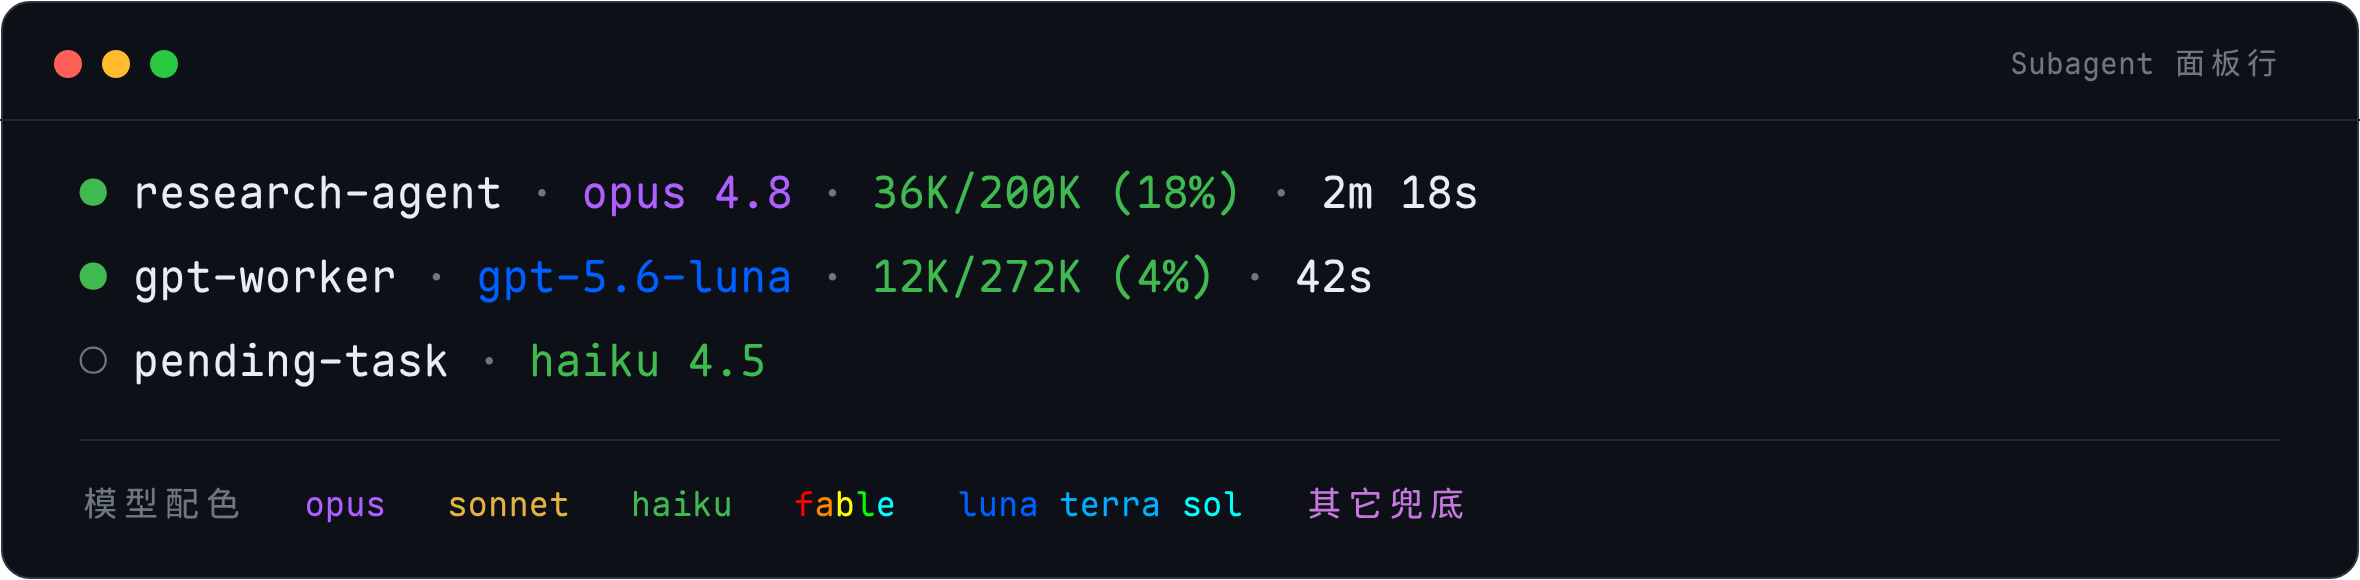
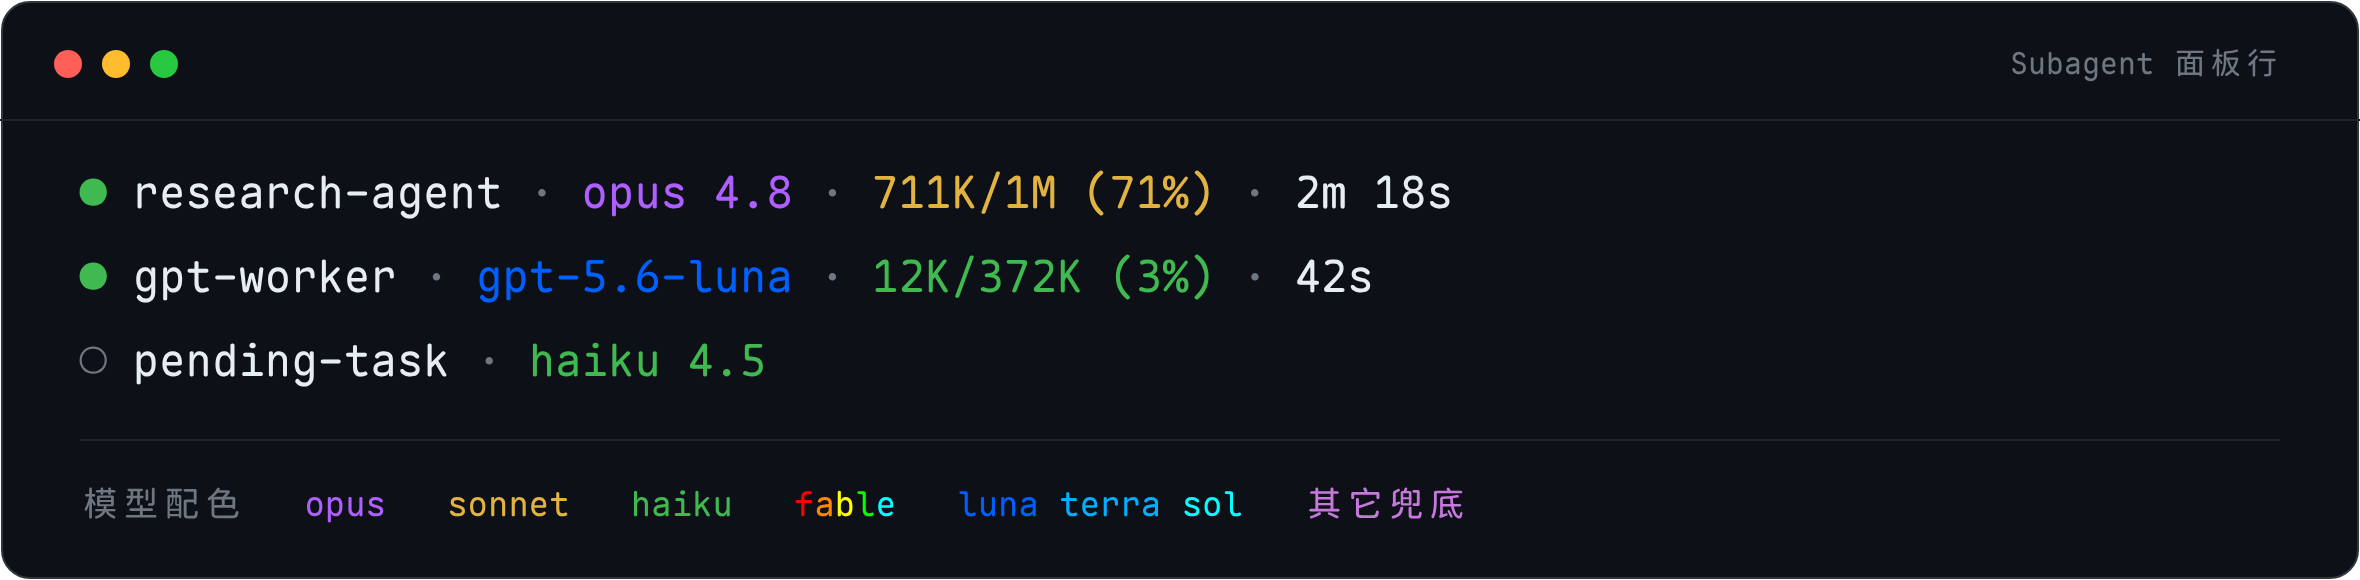
fix(subagent): 样例上下文窗口按真实档位修正并重算百分比
- opus 4.8 窗口 200K→1M，占用改为 711K/1M（71%，落黄档 50–79%）
- gpt-5.6-luna 窗口 272K→372K，占用 4%→3%（12K/372K，绿档）
- 占用段颜色一律按脚本 color_pct 档位取值（<50 绿 / 50–79 黄 / ≥80 红），非硬编码
- 同步改 assets/statusline-subagent.svg 并重渲染 PNG、README 的 <details> 兜底与 <img> alt、DESIGN.md 样例与格式示例
- 顺修 render.sh emoji 日志重复拼接（仅日志文案，不影响渲染）

Changed region(s): [[0.3712, 0.2793, 0.6496, 0.3724], [0.464, 0.4655, 0.4949, 0.4966], [0.4021, 0.4655, 0.4331, 0.4966]]

diff --git a/DESIGN.md b/DESIGN.md
@@ -170,8 +170,8 @@ Claude Code 在 subagent 面板中为每个 Task 渲染一行。本脚本读 std
 
 渲染样例（ANSI 上色后示意）：
 ```
-● research-agent · opus 4.8 · 36K/200K (18%) · 2m 18s
-● gpt-worker · gpt-5.6-luna · 12K/272K (4%) · 42s
+● research-agent · opus 4.8 · 711K/1M (71%) · 2m 18s
+● gpt-worker · gpt-5.6-luna · 12K/372K (3%) · 42s
 ○ pending-task · haiku 4.5
 ```
 
@@ -223,7 +223,7 @@ Claude Code 在 subagent 面板中为每个 Task 渲染一行。本脚本读 std
 
 ### 上下文占用段（三档变色；窗口未知则退化）
 
-`tokenCount/contextWindowSize (占用%)`，如 `36K/200K (18%)`。占用率三档变色（复用 `color_pct`：<50 绿 / 50–79 黄 / ≥80 红，与主 statusline 同调色）。
+`tokenCount/contextWindowSize (占用%)`，如 `711K/1M (71%)`。占用率三档变色（复用 `color_pct`：<50 绿 / 50–79 黄 / ≥80 红，与主 statusline 同调色）。
 
 - `contextWindowSize` 与 `tokenCount` 齐备（且窗口非 0）→ 完整 `token/window (pct%)`。
 - **窗口未知**（v2.1.205 前或未解析）但有 `tokenCount` → 退化为纯 token 数（`fmt_tok`）。

diff --git a/README.md b/README.md
@@ -29,13 +29,13 @@ Opus 4.8 (Max) | 60K/1.0M (6%) | 5h 2% (3h 50min) | 7d 5% (2d 7h, Wed 19:00)
 
 Subagent 面板行（模型段按档位 / 系列上色，颜色本身即成本信号）：
 
-<img src="assets/statusline-subagent.png" alt="Subagent 面板行：research-agent · opus 4.8（紫）· 36K/200K (18%) · 2m 18s；gpt-worker · gpt-5.6-luna（蓝）· 12K/272K (4%) · 42s；pending-task · haiku 4.5（绿）。底部图例展示模型配色：opus 紫 / sonnet 黄 / haiku 绿 / fable 七彩 / luna→terra→sol 蓝到青 / 其它兜底品红。" width="100%">
+<img src="assets/statusline-subagent.png" alt="Subagent 面板行：research-agent · opus 4.8（紫）· 711K/1M (71%，黄=中档占用) · 2m 18s；gpt-worker · gpt-5.6-luna（蓝）· 12K/372K (3%) · 42s；pending-task · haiku 4.5（绿）。底部图例展示模型配色：opus 紫 / sonnet 黄 / haiku 绿 / fable 七彩 / luna→terra→sol 蓝到青 / 其它兜底品红。" width="100%">
 
 <details><summary>纯文本样例</summary>
 
 ```
-● research-agent · opus 4.8 · 36K/200K (18%) · 2m 18s
-● gpt-worker · gpt-5.6-luna · 12K/272K (4%) · 42s
+● research-agent · opus 4.8 · 711K/1M (71%) · 2m 18s
+● gpt-worker · gpt-5.6-luna · 12K/372K (3%) · 42s
 ○ pending-task · haiku 4.5
 ```
 